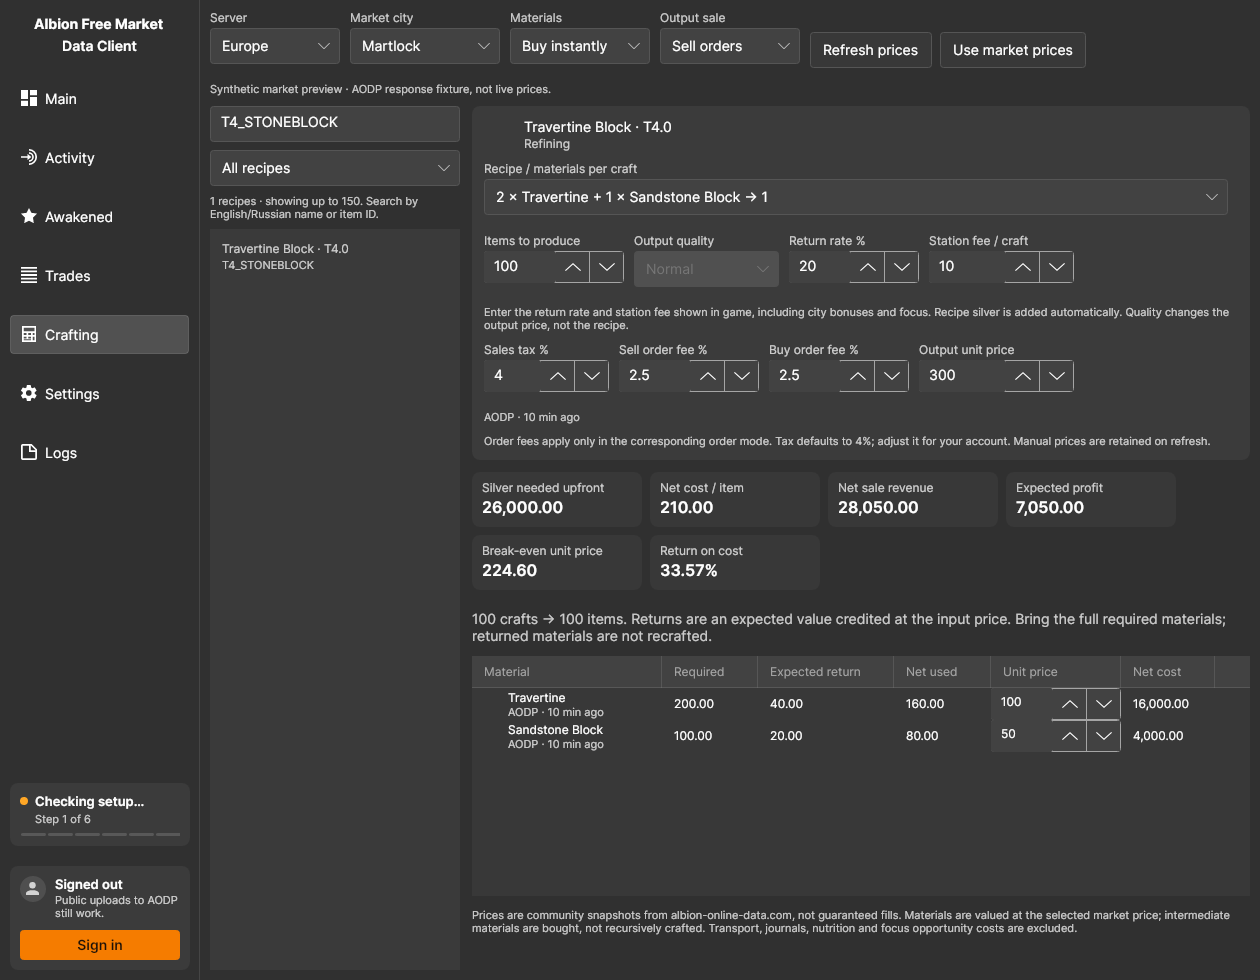
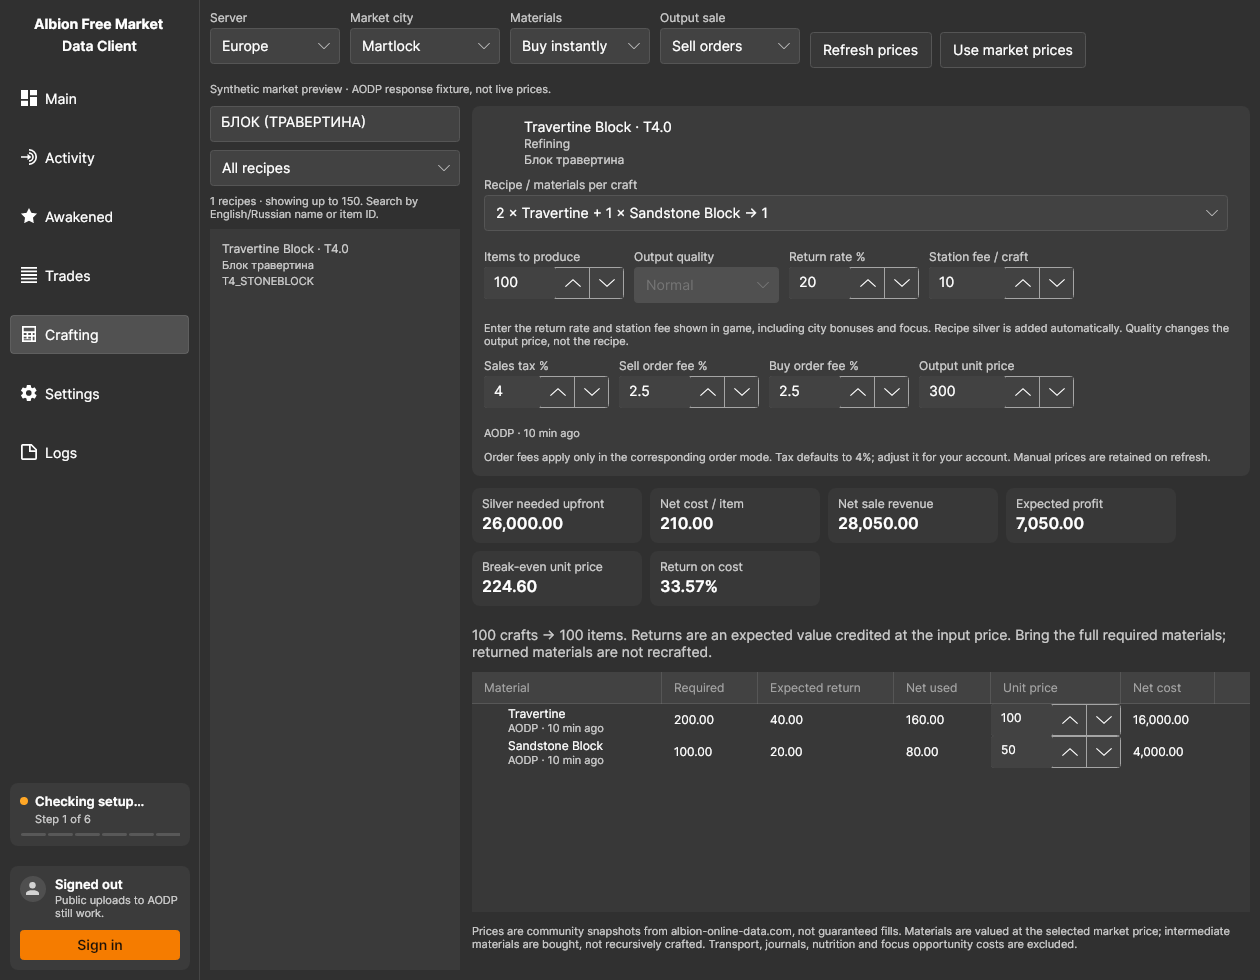
Improve Russian item-name search in crafting calculator

diff --git a/AlbionDataAvalonia/Crafting/CraftingCatalog.cs b/AlbionDataAvalonia/Crafting/CraftingCatalog.cs
@@ -74,8 +74,15 @@ public sealed class CraftingCatalog
                     var category = Text(item, "@shopsubcategory1") == "refinedresources" ? "Refining"
                         : group.Name is "weapon" or "equipmentitem" ? "Equipment"
                         : group.Name is "consumableitem" or "consumablefrominventoryitem" ? "Consumables" : "Other crafting";
-                    result.Add(new(marketId, name, name + " " + marketId + " " + (names.TryGetValue(marketId, out var n) ? n.Russian : ""),
-                        category, (int)Number(item, "@tier"), enchantment, (int)Number(item, "@maxqualitylevel", 1), recipes));
+                    var russian = names.TryGetValue(marketId, out var n) ? n.Russian
+                        : names.TryGetValue(id, out var baseName) ? baseName.Russian : "";
+                    if ((string.IsNullOrWhiteSpace(russian) || russian == marketId) && names.TryGetValue(id, out var baseLocalized))
+                        russian = baseLocalized.Russian;
+                    if (russian == marketId || russian == id) russian = "";
+                    var tier = (int)Number(item, "@tier");
+                    var search = CraftingSearch.Normalize($"{name} {marketId} {russian} T{tier}.{enchantment}");
+                    result.Add(new(marketId, name, search, category, tier, enchantment,
+                        (int)Number(item, "@maxqualitylevel", 1), recipes, russian));
                 }
             }
         if (result.Count == 0) throw new InvalidDataException("No supported crafting recipes were found.");

diff --git a/AlbionDataAvalonia/Crafting/CraftingModels.cs b/AlbionDataAvalonia/Crafting/CraftingModels.cs
@@ -7,8 +7,9 @@ namespace AlbionDataAvalonia.Crafting;
 public sealed record CraftingIngredient(string ItemId, decimal Count, decimal? MaxReturnPerCraft, string? Name = null);
 public sealed record CraftingRecipe(string Label, decimal OutputCount, decimal Silver, IReadOnlyList<CraftingIngredient> Ingredients);
 public sealed record CraftableItem(string ItemId, string Name, string SearchText, string Category, int Tier, int Enchantment,
-    int MaxQuality, IReadOnlyList<CraftingRecipe> Recipes)
+    int MaxQuality, IReadOnlyList<CraftingRecipe> Recipes, string RussianName = "")
 {
+    public bool HasRussianName => !string.IsNullOrWhiteSpace(RussianName);
     public string Label => $"{Name} · T{Tier}.{Enchantment}";
 }
 public sealed record CraftingInput(CraftingIngredient Ingredient, decimal? UnitPrice);

diff --git a/AlbionDataAvalonia/Crafting/CraftingSearch.cs b/AlbionDataAvalonia/Crafting/CraftingSearch.cs
@@ -1,0 +1,16 @@
+using System;
+using System.Linq;
+using System.Text;
+
+namespace AlbionDataAvalonia.Crafting;
+
+/// <summary>Uses the same Unicode, punctuation and е/ё rules for recipe names and user input.</summary>
+public static class CraftingSearch
+{
+    public static string Normalize(string text) => new(text.Normalize(NormalizationForm.FormC).ToUpperInvariant()
+        .Select(c => c == 'Ё' ? 'Е' : char.IsLetterOrDigit(c) || c is '_' or '@' or '.' ? c : ' ').ToArray());
+
+    public static string[] Terms(string query) => Normalize(query).Split((char[]?)null, StringSplitOptions.RemoveEmptyEntries);
+
+    public static bool Matches(CraftableItem item, string[] terms) => terms.All(term => item.SearchText.Contains(term, StringComparison.Ordinal));
+}

diff --git a/AlbionDataAvalonia/ViewModels/CraftingViewModel.cs b/AlbionDataAvalonia/ViewModels/CraftingViewModel.cs
@@ -91,9 +91,9 @@ public sealed partial class CraftingViewModel : ViewModelBase
     }
     private void FilterItems()
     {
-        var terms = SearchText.Split(' ', StringSplitOptions.RemoveEmptyEntries | StringSplitOptions.TrimEntries);
+        var terms = CraftingSearch.Terms(SearchText);
         var matches = allItems.Where(x => (SelectedCategory == "All recipes" || x.Category == SelectedCategory)
-            && terms.All(t => x.SearchText.Contains(t, StringComparison.OrdinalIgnoreCase))).ToArray();
+            && CraftingSearch.Matches(x, terms)).ToArray();
         var selection = SelectedItem;
         Items.ReplaceAll(matches.Take(150));
         if (selection is not null && Items.Contains(selection)) SelectedItem = selection;

diff --git a/docs/DEVELOPMENT.md b/docs/DEVELOPMENT.md
@@ -130,3 +130,5 @@ The Crafting sidebar page is a local desktop feature. `CraftingCatalog` lazily p
 `CraftingCalculator` rounds requested output up to complete crafts. For each input, required = crafts × recipe quantity; expected return = min(required × return rate, per-craft return cap × crafts); net material cost = (required − expected return) × unit price. Upfront silver includes all required materials, recipe silver, entered station fees and buy-order fees on the full purchase. Effective cost credits returns at the same input price without recrafting them. Net revenue subtracts sales tax and, for sell orders, the setup fee. Break-even is effective cost / (actual output × net sale fraction). Missing prices stay nullable; explicit manual zero means free materials. Return on cost is unavailable when cost is zero. Station fees and return percentages come from the game's displayed values; focus opportunity costs, journals, transport, nutrition and recursive intermediate crafting are excluded.
 
 `CraftingPriceService` requests public AODP `/api/v2/stats/prices` snapshots from `west.albion-online-data.com`, `east.albion-online-data.com` or `europe.albion-online-data.com`, selected explicitly as Americas/Asia/Europe. Requests are scoped to one city, material quality 1 and the selected output quality; IDs are escaped, batches are capped at 50, and successful responses are cached for five minutes. Instant purchases use minimum sell prices, buy orders use maximum buy prices; sell orders use minimum sell prices and instant sales use maximum buy prices. Per-price timestamps flag observations older than 24 hours. API zero prices are unavailable. Manual overrides survive refresh and can be cleared with Use market prices. Navigation cancels pending price requests; version tickets discard obsolete responses. These hosts must be allowed by the deployment network policy; an API failure leaves manual calculation available.
+
+Crafting search indexes both localized names, the market ID and the tier/enchantment label through `CraftingSearch.Normalize`. The same Unicode normalization, case folding, punctuation/whitespace handling and Cyrillic е/ё folding apply to queries. Russian names are retained on catalog entries for display and fall back to the base item for variants without their own localization.

diff --git a/README.md b/README.md
@@ -312,7 +312,7 @@ Made by [JP CodeCraft](https://jpcodecraft.com/), the developer behind Albion Fr
 
 ### Crafting calculator
 
-Open **Crafting** in the main window to estimate crafting or refining costs, including stone blocks, other refined resources, equipment, components, food and potions. Search by English/Russian name or item ID and choose the recipe; alternate recipes and enchanted variants use their actual material quantities and output batch sizes. The catalog comes with the app and works offline.
+Open **Crafting** in the main window to estimate crafting or refining costs, including stone blocks, other refined resources, equipment, components, food and potions. Search by English/Russian name or item ID and choose the recipe; for example, `блок травертина` or `палаш знаток`. Russian names appear in the results and selected-item card; search ignores letter case, punctuation, extra whitespace and the difference between `е` and `ё`. Alternate recipes and enchanted variants use their actual material quantities and output batch sizes. The catalog comes with the app and works offline.
 
 Choose a server, market city, material purchase mode and output sale mode, then **Refresh prices** to request public Albion Online Data Project prices. Select output quality for equipment. Each price shows its observation age; old or missing community prices are not guaranteed to match current orders. You can edit any material or output price manually. Refresh keeps manual overrides; **Use market prices** clears them. If an API request fails, manual prices still work.
 
